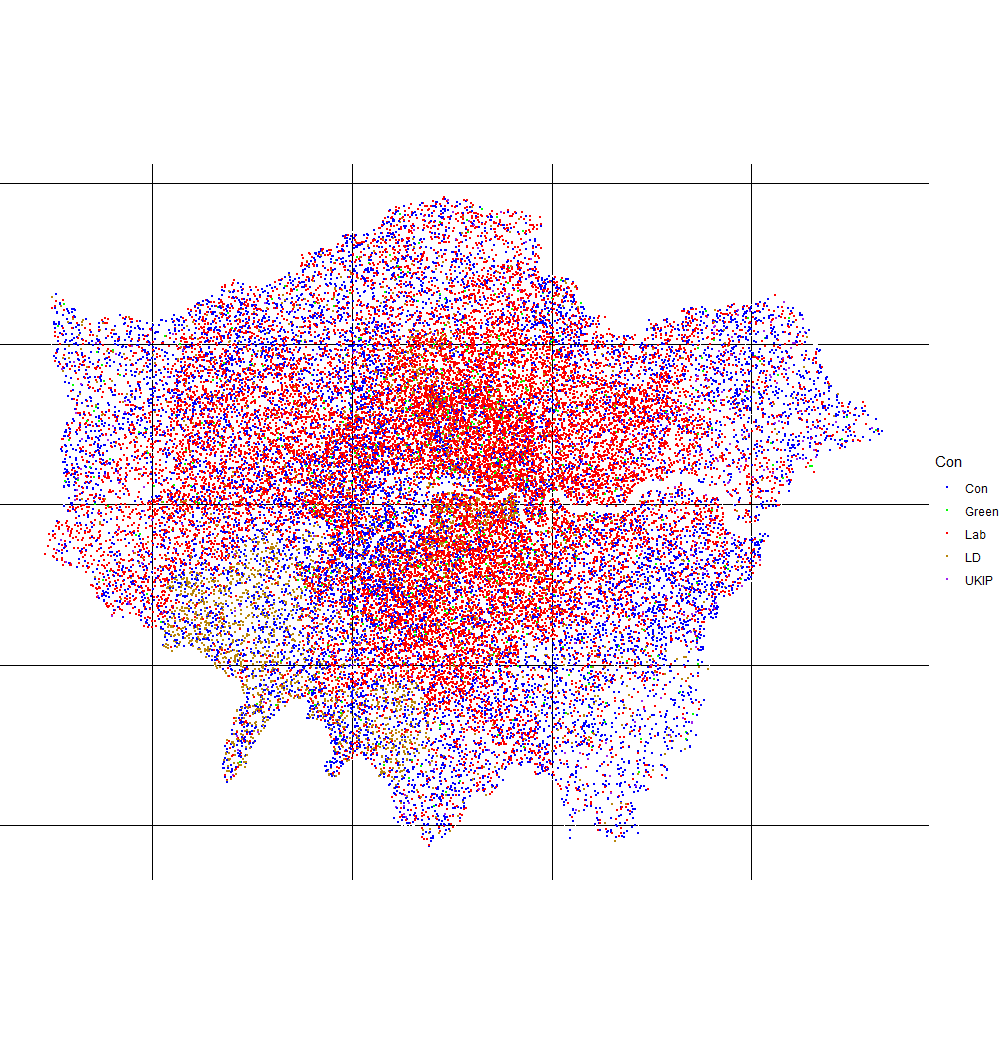
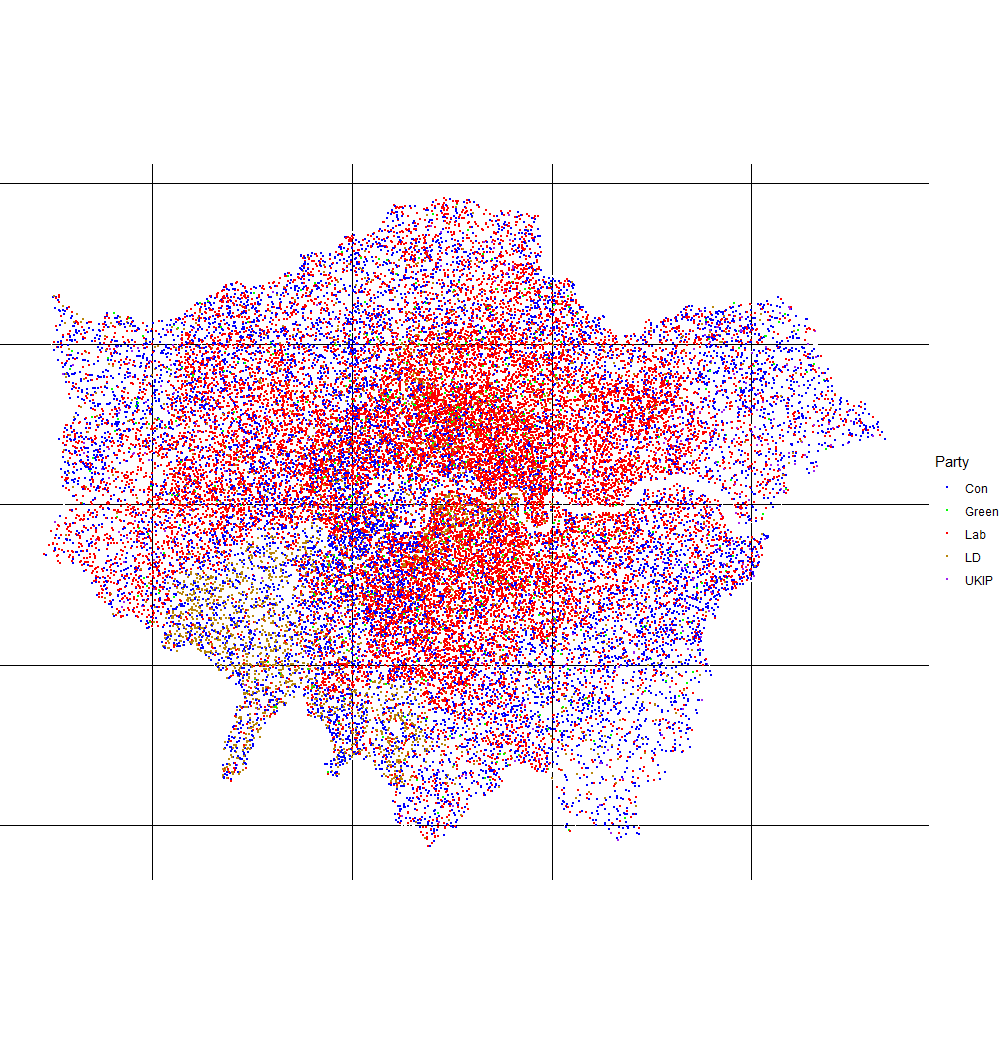
small edits to plots

Changed region(s): [[0.031, 0.1839, 0.868, 0.7969], [0.93, 0.4291, 0.961, 0.4598]]

diff --git a/README.md b/README.md
@@ -17,7 +17,7 @@ sf_data <- merge(ge_data, uk, by = "ons_id") %>%
 #the columns we want to select and plot
 parties <- names(sf_data)[4:8]
 #set up a colour scale for these if so inclined
-colours = c("blue", "red", "darkgoldenrod", "purple", "green")
+colours = c("deepskyblue", "red", "gold", "purple", "green")
 names(colours) = parties
 
 #calculate the dot positions for each column
@@ -28,14 +28,21 @@ library(ggplot2)
 p <- ggplot() +
   geom_sf(data = sf_data, fill = "transparent",colour = "white") +
   geom_point(data = sf_dots, aes(lon, lat, colour = variable), size = 0.5) +
-  scale_colour_manual(name = parties, values = colours) +
-  theme_void()
+  scale_colour_manual(name = "Party", values = colours) +
+  theme_void() +
+  guides(colour = guide_legend(override.aes = list(size = 10))) +
+  theme(plot.background = element_rect(fill = "#212121", color = NA), 
+        panel.background = element_rect(fill = "#212121", color = NA),
+        legend.background = element_rect(fill = "#212121", color = NA),
+        text =  element_text(color = "white"),
+        title =  element_text(color = "white"),
+        legend.text=element_text(size=12))
+
 
 p
 ```
 
 ![London](https://github.com/RobWHickman/sf.chlorodot/blob/master/figures/london.png)
-
 
 Another good example using Bosnian ethnicity data can be found [here](https://twitter.com/majda_ruge/status/1037704253043879936). For an extra example I decided to look at South African language diversity, which I'd previously seen good visualisation of [here](https://adrianfrith.com/linguistic-diversity/)
 
@@ -99,22 +106,27 @@ language_data <- rbindlist(lapply(south_africa_data, function(x) {
   #filter only the data we want to merge
   filter(region %in% south_africa$region) %>%
   filter(!is.na(language)) %>%
+  filter(language != "Not applicable") %>%
   #spread the data
   dcast(., region ~ language, value.var = "primary_speakers", fun.aggregate = sum) %>%
   #join in the spatial geometry
-  left_join(., south_africa)
+  left_join(., south_africa) %>%
+  #convert to sf
+  st_as_sf()
 
 #calculate the dot locations using the package
-sf_dots <- calc_dots(df = language_data, col_names = names(language_data)[2:15], n_per_dot = 1000)
+sf_dots <- calc_dots(df = language_data, col_names = names(language_data)[2:14], n_per_dot = 1000)
 
 #plot it
 #stolen the background colour scheme from Paul Campbell's blog
 #original inspiration for this package
 p <- ggplot() +
   geom_sf(data = south_africa, fill = "transparent",colour = "white") +
-  geom_point(data = sf_dots, aes(lon, lat, colour = Party), size = 0.5) +
+  geom_point(data = sf_dots, aes(lon, lat, colour = variable), size = 0.5) +
+  scale_colour_discrete(name = "Primary Language") +
   ggtitle("Language Diversity in South Africa") +
   theme_void() +
+  guides(colour = guide_legend(override.aes = list(size = 10))) +
   theme(plot.background = element_rect(fill = "#212121", color = NA), 
         panel.background = element_rect(fill = "#212121", color = NA),
         legend.background = element_rect(fill = "#212121", color = NA),
@@ -125,5 +137,4 @@ p <- ggplot() +
 p
 ```
 ![South Africa](https://github.com/RobWHickman/sf.chlorodot/blob/master/figures/south_africa.png)
-
 
